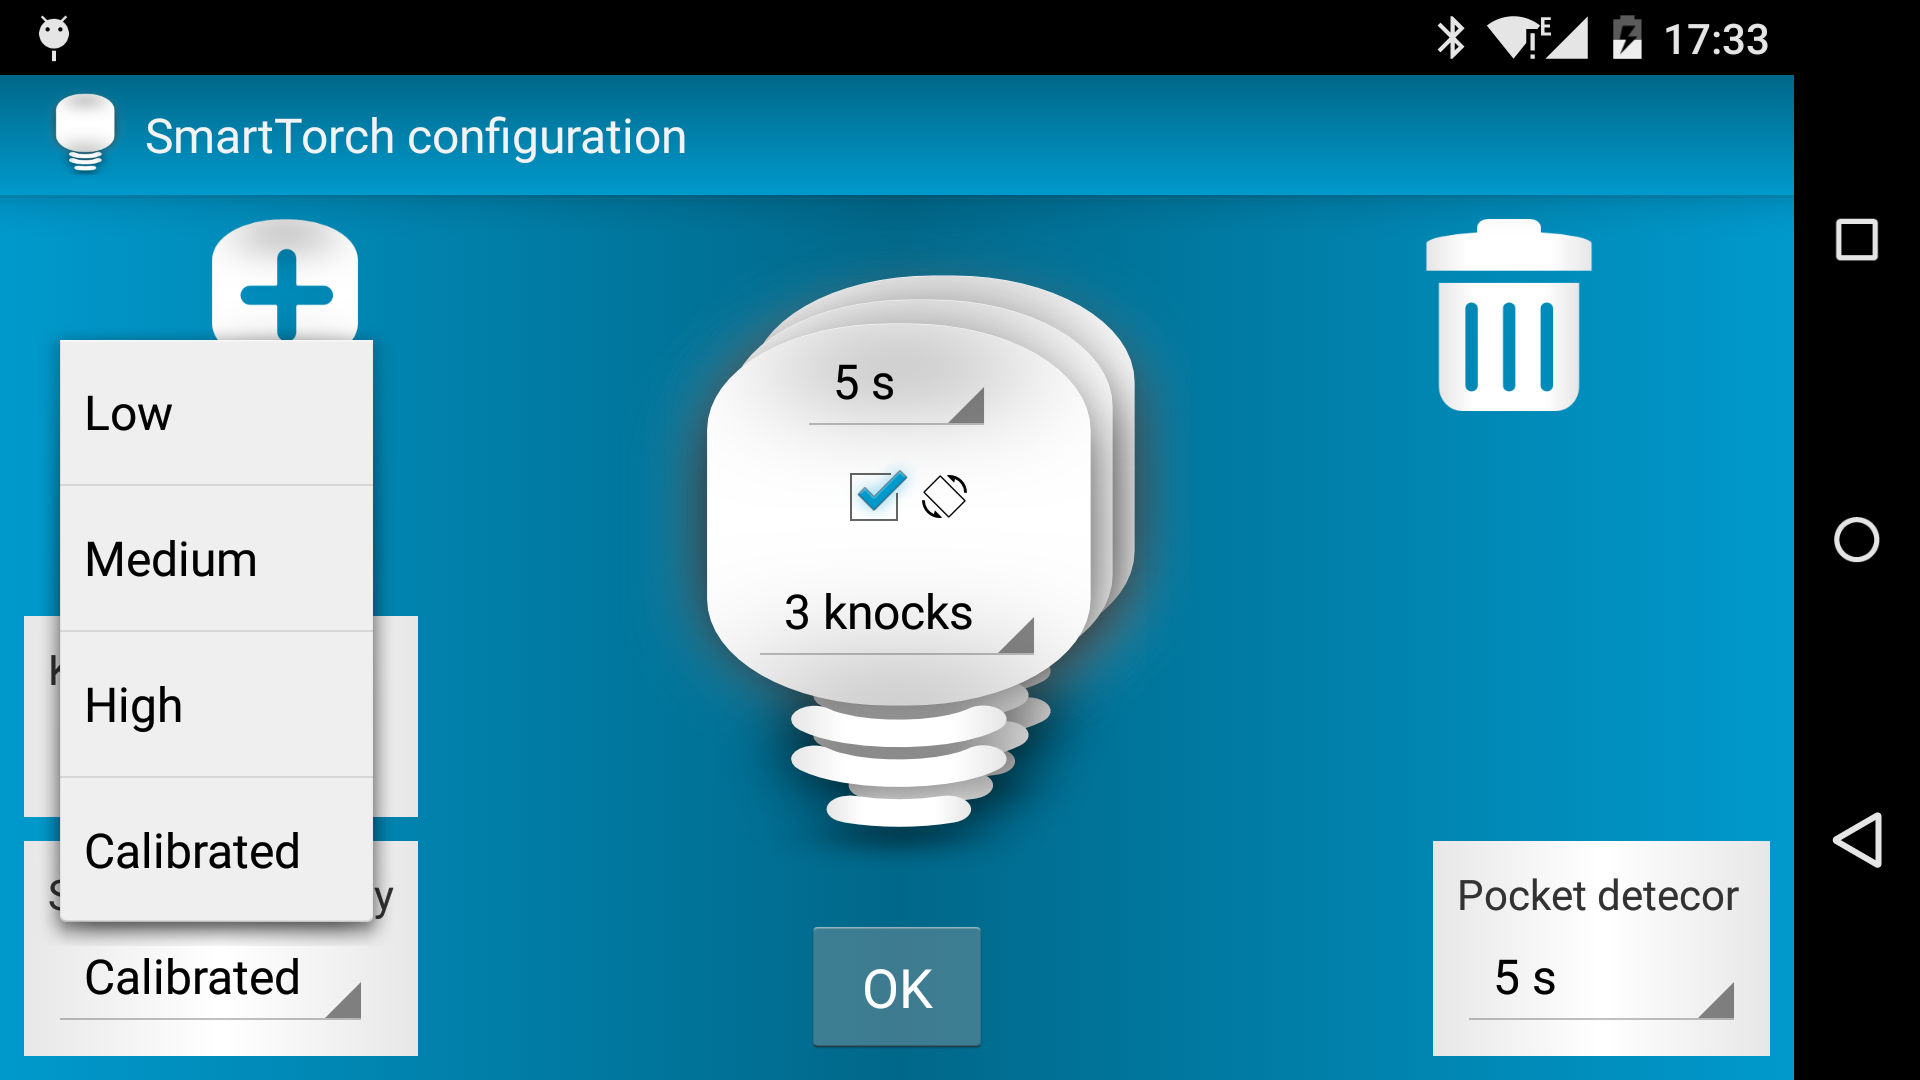
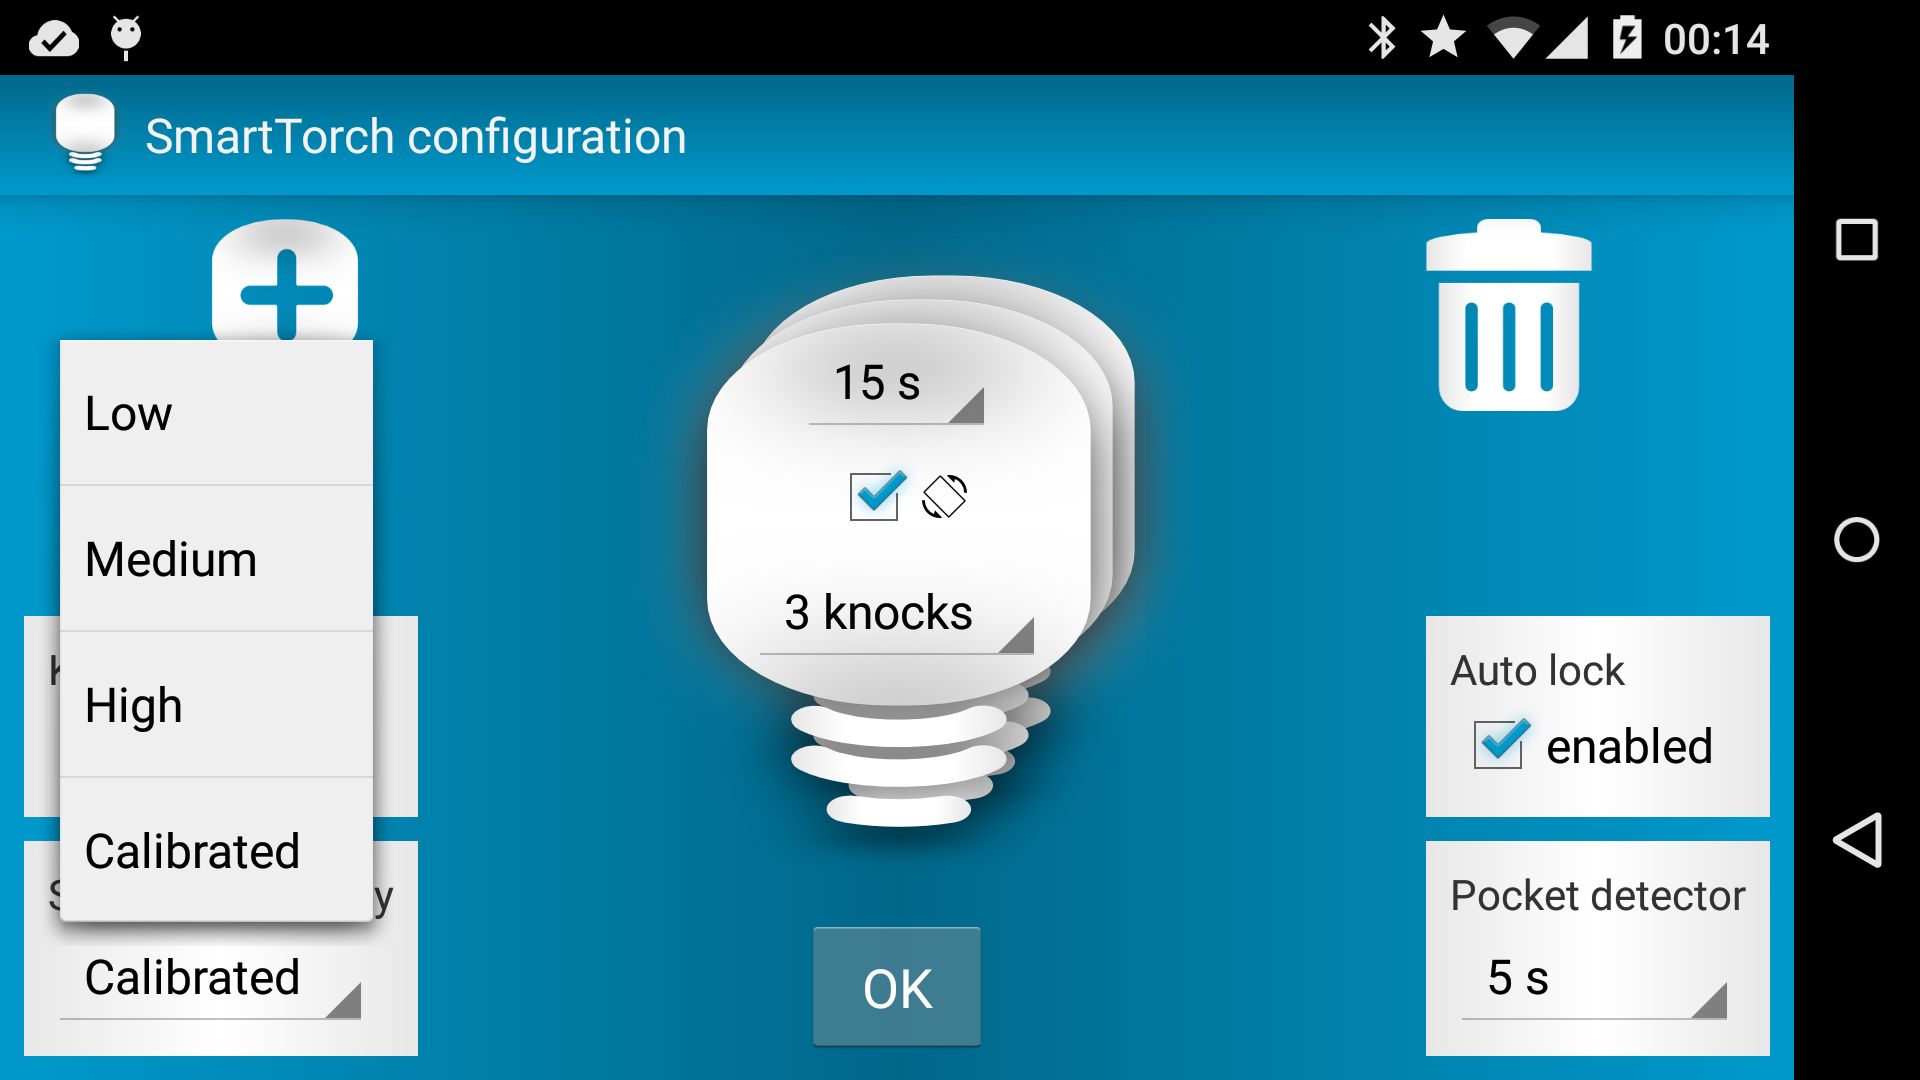
Autolock feature added

diff --git a/src/com/greenlog/smarttorch/SmartTorchWidgetConfigure.java b/src/com/greenlog/smarttorch/SmartTorchWidgetConfigure.java
@@ -4,6 +4,7 @@ import android.animation.Animator;
 import android.animation.Animator.AnimatorListener;
 import android.app.Activity;
 import android.app.AlertDialog;
+import android.app.admin.DevicePolicyManager;
 import android.appwidget.AppWidgetManager;
 import android.content.Context;
 import android.content.DialogInterface;
@@ -39,6 +40,8 @@ public class SmartTorchWidgetConfigure extends Activity {
 	private final static String SHAKE_SENSITIVITY_CALIBRATED_VALUE = "com.greenlog.smarttorch.SHAKE_SENSITIVITY_CALIBRATED_VALUE";
 	private final static String SHAKE_SENSITIVITY_MODE_RESET = "com.greenlog.smarttorch.SHAKE_SENSITIVITY_MODE_RESET";
 
+	private final static int REQUEST_CODE_ENABLE_ADMIN = 1;
+
 	private int mAppWidgetId = AppWidgetManager.INVALID_APPWIDGET_ID;
 
 	private TorchModeAdapter mTorchModeAdapter;
@@ -65,6 +68,8 @@ public class SmartTorchWidgetConfigure extends Activity {
 	private SettingsManager mSettingsManager;
 
 	private int mProximityTimerValues[];
+
+	private CheckBox mAutoLockCheckbox;
 
 	@Override
 	protected void onCreate(final Bundle savedInstanceState) {
@@ -226,6 +231,42 @@ public class SmartTorchWidgetConfigure extends Activity {
 				});
 			}
 		});
+
+		// Auto lock checkbox
+		mAutoLockCheckbox = (CheckBox) findViewById(R.id.auto_lock_enabled);
+		mAutoLockCheckbox
+				.setOnCheckedChangeListener(new OnCheckedChangeListener() {
+					@Override
+					public void onCheckedChanged(
+							final CompoundButton buttonView,
+							final boolean isChecked) {
+						if (DeviceAdminTorchReceiver
+								.isAdminActive(SmartTorchWidgetConfigure.this) != isChecked) {
+							if (isChecked) {
+								final Intent intent = new Intent(
+										DevicePolicyManager.ACTION_ADD_DEVICE_ADMIN);
+								intent.putExtra(
+										DevicePolicyManager.EXTRA_DEVICE_ADMIN,
+										DeviceAdminTorchReceiver
+												.getComponentName());
+								intent.putExtra(
+										DevicePolicyManager.EXTRA_ADD_EXPLANATION,
+										getString(R.string.add_admin_extra_app_text));
+								startActivityForResult(intent,
+										REQUEST_CODE_ENABLE_ADMIN);
+							} else {
+								DeviceAdminTorchReceiver
+										.getDevicePolicyManager(
+												SmartTorchWidgetConfigure.this)
+										.removeActiveAdmin(
+												DeviceAdminTorchReceiver
+														.getComponentName());
+							}
+						}
+					}
+				});
+		mAutoLockCheckbox.setChecked(DeviceAdminTorchReceiver
+				.isAdminActive(SmartTorchWidgetConfigure.this));
 
 		// Flying torch
 		mFlyingTorch = (ImageView) findViewById(R.id.flying_torch);
@@ -412,11 +453,21 @@ public class SmartTorchWidgetConfigure extends Activity {
 			mDialogToConfigure = null;
 		}
 
-		// So, we Spinner.setSelectionSilently() don't work here, and we put the
-		// flag onSaveInstanceState
+		// So, Spinner.setSelectionSilently() don't work here, and we put
+		// the flag onSaveInstanceState
 		cancelCalibration();
 
 		super.onDestroy();
+	}
+
+	@Override
+	protected void onActivityResult(final int requestCode,
+			final int resultCode, final Intent data) {
+		if (requestCode == REQUEST_CODE_ENABLE_ADMIN) {
+			mAutoLockCheckbox.setChecked(DeviceAdminTorchReceiver
+					.isAdminActive(SmartTorchWidgetConfigure.this));
+		}
+		super.onActivityResult(requestCode, resultCode, data);
 	}
 
 	private void cancelCalibration() {

diff --git a/src/com/greenlog/smarttorch/DeviceAdminTorchReceiver.java b/src/com/greenlog/smarttorch/DeviceAdminTorchReceiver.java
@@ -1,0 +1,32 @@
+package com.greenlog.smarttorch;
+
+import android.app.admin.DeviceAdminReceiver;
+import android.app.admin.DevicePolicyManager;
+import android.content.ComponentName;
+import android.content.Context;
+import android.content.Intent;
+import android.widget.Toast;
+
+public class DeviceAdminTorchReceiver extends DeviceAdminReceiver {
+	@Override
+	public void onEnabled(final Context context, final Intent intent) {
+		Toast.makeText(context, R.string.turn_off_autolock_to_uninstall,
+				Toast.LENGTH_SHORT).show();
+	}
+
+	public static ComponentName getComponentName() {
+		return new ComponentName(DeviceAdminTorchReceiver.class.getPackage()
+				.getName(), DeviceAdminTorchReceiver.class.getName());
+	}
+
+	public static DevicePolicyManager getDevicePolicyManager(
+			final Context context) {
+		return (DevicePolicyManager) context
+				.getSystemService(Context.DEVICE_POLICY_SERVICE);
+	}
+
+	public static boolean isAdminActive(final Context context) {
+		return getDevicePolicyManager(context)
+				.isAdminActive(getComponentName());
+	}
+}

diff --git a/src/com/greenlog/smarttorch/SmartTorchService.java b/src/com/greenlog/smarttorch/SmartTorchService.java
@@ -129,13 +129,12 @@ public class SmartTorchService extends Service implements SensorEventListener {
 		switch (intent.getAction()) {
 		case SERVICE_ACTION_TURN_ON:
 			setTorchMode(new TorchMode(intent.getExtras()));
-			// mTorchMode = new TorchMode(intent.getExtras());
-			// startSensor();
-			// updateTimer(true);
-			// final Notification notification = updateNotification();
-			// startForeground(NOTIFY_ID, notification);
-			// startWakeLock();
-			// turnLed(true);
+
+			// Is Auto lock feature enabled?
+			if (DeviceAdminTorchReceiver.isAdminActive(this)) {
+				DeviceAdminTorchReceiver.getDevicePolicyManager(this).lockNow();
+			}
+
 			break;
 		case SERVICE_ACTION_TURN_OFF:
 			stopSelf();
